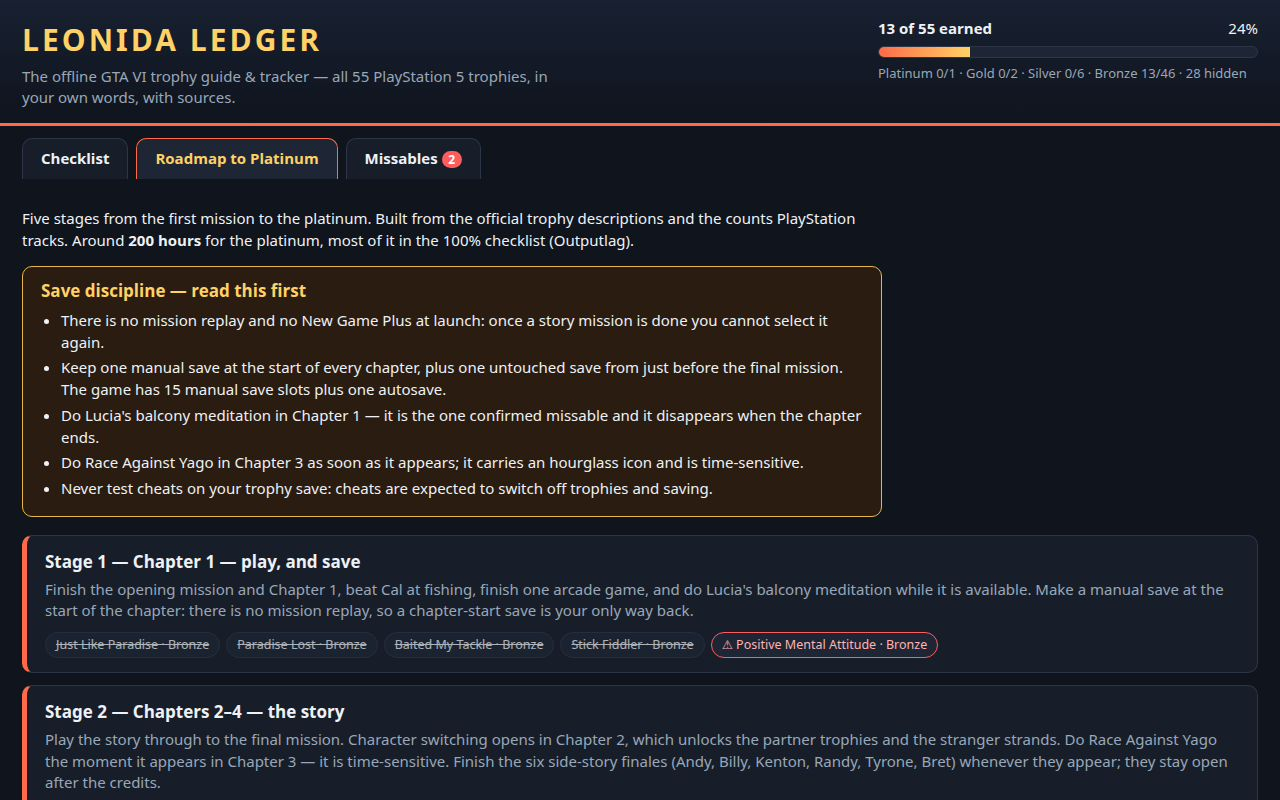
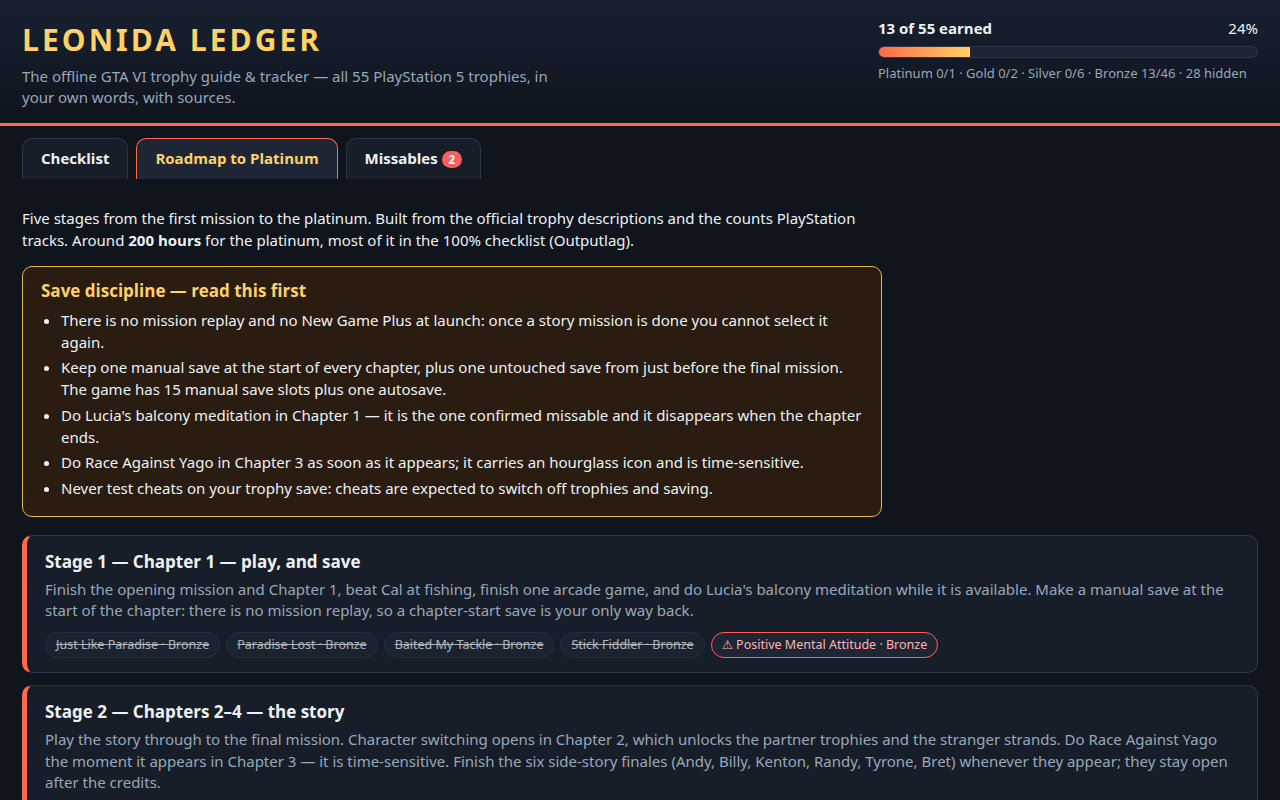
Leonida Ledger v2: Missables screenshot, stronger guides for the five unconfirmed hidden trophies (PowerPyx/GTABase cited), filter-selection fix, readability pass

diff --git a/app/app.js b/app/app.js
@@ -1,6 +1,21 @@
 // Leonida Ledger — offline GTA VI trophy guide and tracker.
-// Loads only data/trophies.json from its own files, saves progress in
-// localStorage, and never makes a network request of its own.
+//
+// What this file does, end to end:
+//   - Data: loads the 55 official trophies (name, description, grade) plus an
+//     original guide, steps and cited sources for each from
+//     data/trophies.json — the only file it ever fetches, from its own folder.
+//   - Tracker: each trophy can be ticked off; the earned set is saved in
+//     localStorage and restored on the next visit, with export to a JSON
+//     file, import back from one, and a full reset.
+//   - Finding things: kind filters (story, missable, collectibles,
+//     activities, online), a grade filter and name/description search.
+//   - Spoiler mode: while it is on, unearned story trophies show neither
+//     their names nor their descriptions, in the list or the guide panel.
+//   - Roadmap & missables: two extra views built from the same data — a
+//     five-stage route to the platinum with save-discipline rules, and a
+//     page that gathers every flagged trophy with its warning.
+// It never makes a network request beyond that one local data file, so the
+// guide works with the network off.
 const PROGRESS_KEY = 'leonida-ledger-progress-v1';
 const SPOILER_KEY = 'leonida-ledger-spoiler-v1';
 
@@ -398,6 +413,11 @@ function setTab(name) {
 }
 
 function applyFilters() {
+  // Keep the guide panel in step with the list: if the current selection is
+  // filtered out, open the first trophy that is still visible instead of
+  // leaving the panel showing a trophy the list no longer contains.
+  const shown = visibleTrophies();
+  if (shown.length && !shown.some((t) => t.id === selectedId)) selectedId = shown[0].id;
   renderChecklist();
   renderDetail();
 }

diff --git a/app/style.css b/app/style.css
@@ -147,9 +147,9 @@ main { padding: 0 22px 22px; }
 .grade-dot.gold { background: var(--gold); }
 .grade-dot.silver { background: var(--silver); }
 .grade-dot.bronze { background: var(--bronze); }
-.trophy-name { font-weight: 700; font-size: 14.5px; }
+.trophy-name { font-weight: 700; font-size: 15px; }
 .trophy-row.earned .trophy-name { text-decoration: line-through; }
-.trophy-desc { color: var(--muted); font-size: 13px; }
+.trophy-desc { color: #b6c1d1; font-size: 13px; }
 .trophy-tags { display: flex; flex-direction: column; align-items: flex-end; gap: 3px; font-size: 11.5px; }
 .tag {
   padding: 1px 7px;
@@ -183,7 +183,7 @@ main { padding: 0 22px 22px; }
 .detail-grade.bronze { color: var(--bronze); }
 .detail-desc { color: var(--muted); font-style: italic; margin: 0 0 10px; }
 .detail-meta { display: flex; flex-wrap: wrap; gap: 6px; margin-bottom: 10px; }
-.detail-guide { margin: 0 0 10px; }
+.detail-guide { margin: 0 0 10px; line-height: 1.55; }
 .detail-steps { margin: 0 0 10px; padding-left: 20px; }
 .detail-steps li { margin-bottom: 4px; }
 .missable-box {

diff --git a/main.ts b/main.ts
@@ -9,6 +9,14 @@
 // summary the judge reads. Leave vendor/makefun-frontend.ts untouched: the
 // scorer rebuilds the dossier with its own copy and compares byte for byte.
 //
+// The output has to be deterministic: the grader runs this program twice
+// and requires the two results to be byte-identical, so the copy below is a
+// plain file-for-file copy with no timestamps, ordering tricks or generated
+// content of its own — the only file written fresh is dossier.json, and the
+// vendored library builds it the same way every run. Before copying,
+// checkAppPresent() fails loudly if the entry is incomplete or a screenshot
+// is oversize, so a broken hand-in stops here instead of at the gate.
+//
 // Run it locally with:
 //   mkdir -p out && MAKEFUN_OUTPUT_DIR=out node main.ts
 

diff --git a/app/index.html b/app/index.html
@@ -3,6 +3,10 @@
 <head>
 <meta charset="utf-8">
 <meta name="viewport" content="width=device-width, initial-scale=1">
+<meta name="description" content="Leonida Ledger — the offline GTA VI trophy guide and tracker: all 55 PlayStation 5 trophies with cited guides, a platinum roadmap, missable warnings, spoiler mode and exportable progress.">
+<!-- Offline by design: this page loads only its own files (style.css, app.js
+     and data/trophies.json) and saves progress in the browser's localStorage,
+     so it works in full with the network switched off. -->
 <title>Leonida Ledger — GTA VI Trophy Guide &amp; Tracker</title>
 <link rel="stylesheet" href="style.css">
 </head>

diff --git a/README.md b/README.md
@@ -13,6 +13,22 @@ The offline guide and tracker for all **55 PlayStation 5 trophies** of Grand The
 - **Missables flagged** — 1 confirmed missable (Lucia's balcony meditation, Chapter 1) and 1 time-sensitive strand race, with the save discipline that covers both: a manual save at the start of every chapter, since there is no mission replay.
 - **A guide for every trophy, in our own words, with sources** — what to do, where, how, and when it can be missed. Steps that come from a published launch-week guide cite it; where no published guide confirms a location or method, the guide says so instead of inventing one.
 
+## Screenshots
+
+Four renders of the app itself, in the order the judge sees them:
+
+1. `screenshots/1-cover.jpg` — the checklist with a guide open: progress, filters, the missable banner, steps and sources in one screen.
+2. `screenshots/2-roadmap.jpg` — the Roadmap to Platinum view: five stages plus the save-discipline rules.
+3. `screenshots/3-missables.jpg` — the Missables tab: both flagged trophies with their warnings and the saves that cover them.
+4. `screenshots/4-spoiler.jpg` — spoiler mode on: unearned story trophies masked in the list, an earned one open with its Sources section.
+
+## What changed in v2
+
+- **The Missables tab is now shown.** v1's screenshot set never displayed it; the third screenshot now shows the flagged trophies and their warnings directly.
+- **The five still-unconfirmed hidden trophies got fuller guides.** In The Beginning…, Capital Offense, Bad Luck, I Guess, The Truth Is Out There and Ten Pin still have no confirmed unlock method anywhere — PowerPyx lists all five as currently unknown — so their guides now say exactly that, cite PowerPyx and GTABase alongside Exophase and Outputlag, pass on each source's best current theory (a motorcycle melee kick for Ten Pin, a Payday Loans link for Bad Luck, I Guess, a UFO questline for The Truth Is Out There), and give the strongest description-based plan for each instead of a shrug.
+- **Small tracker fix:** when a filter hides the trophy whose guide is open, the panel now moves to the first trophy still visible instead of pointing at one the list no longer shows.
+- **Readability pass:** slightly larger trophy names, lighter list descriptions and looser guide line spacing, so the text survives being shrunk into a contact sheet.
+
 ## Run it
 
 ```sh
@@ -31,7 +47,7 @@ mkdir -p out && MAKEFUN_OUTPUT_DIR=out node main.ts
 
 ## Sources
 
-Trophy names, descriptions and grades are PlayStation's official text, as listed by [Exophase](https://www.exophase.com/game/grand-theft-auto-vi-psn/trophies/) and [PSNProfiles](https://psnprofiles.com/trophies/43531-grand-theft-auto-vi). Guide steps cite [Outputlag's GTA 6 Trophy List](https://outputlag.com/guides/gta-6-trophy-list/) where they draw on it; every trophy's guide names its sources in the app.
+Trophy names, descriptions and grades are PlayStation's official text, as listed by [Exophase](https://www.exophase.com/game/grand-theft-auto-vi-psn/trophies/) and [PSNProfiles](https://psnprofiles.com/trophies/43531-grand-theft-auto-vi). Guide steps cite [Outputlag's GTA 6 Trophy List](https://outputlag.com/guides/gta-6-trophy-list/), [PowerPyx's GTA 6 Trophy Guide & Roadmap](https://www.powerpyx.com/gta-6-grand-theft-auto-vi-trophy-guide-roadmap/) and [GTABase's Trophy Guide & Achievements List](https://www.gtabase.com/articles/gta-6/gta-6-achievements-trophies-list-ps5-xbox-series) where they draw on them; every trophy's guide names its sources in the app.
 
 Unofficial fan guide. Not affiliated with Rockstar Games. No Rockstar logo, artwork or game screenshots are used.
 
